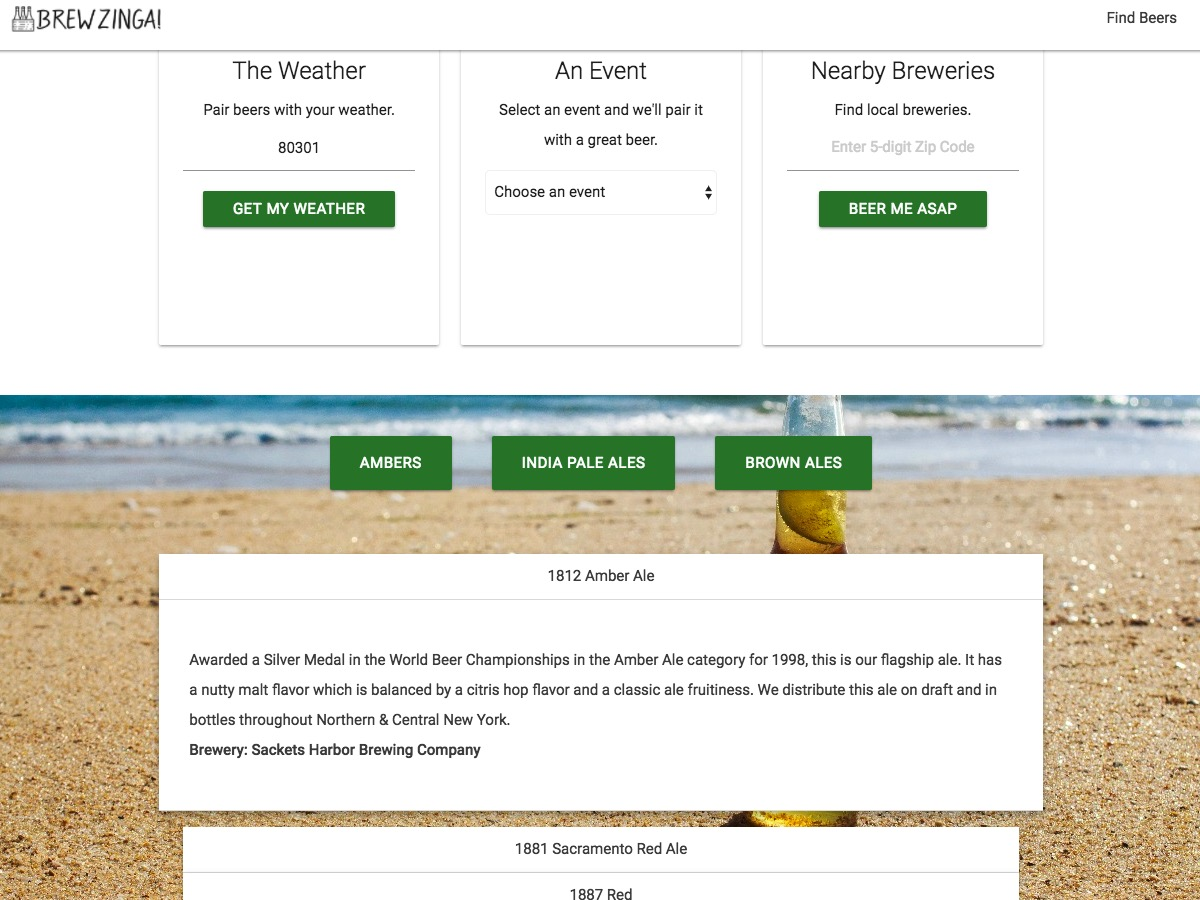
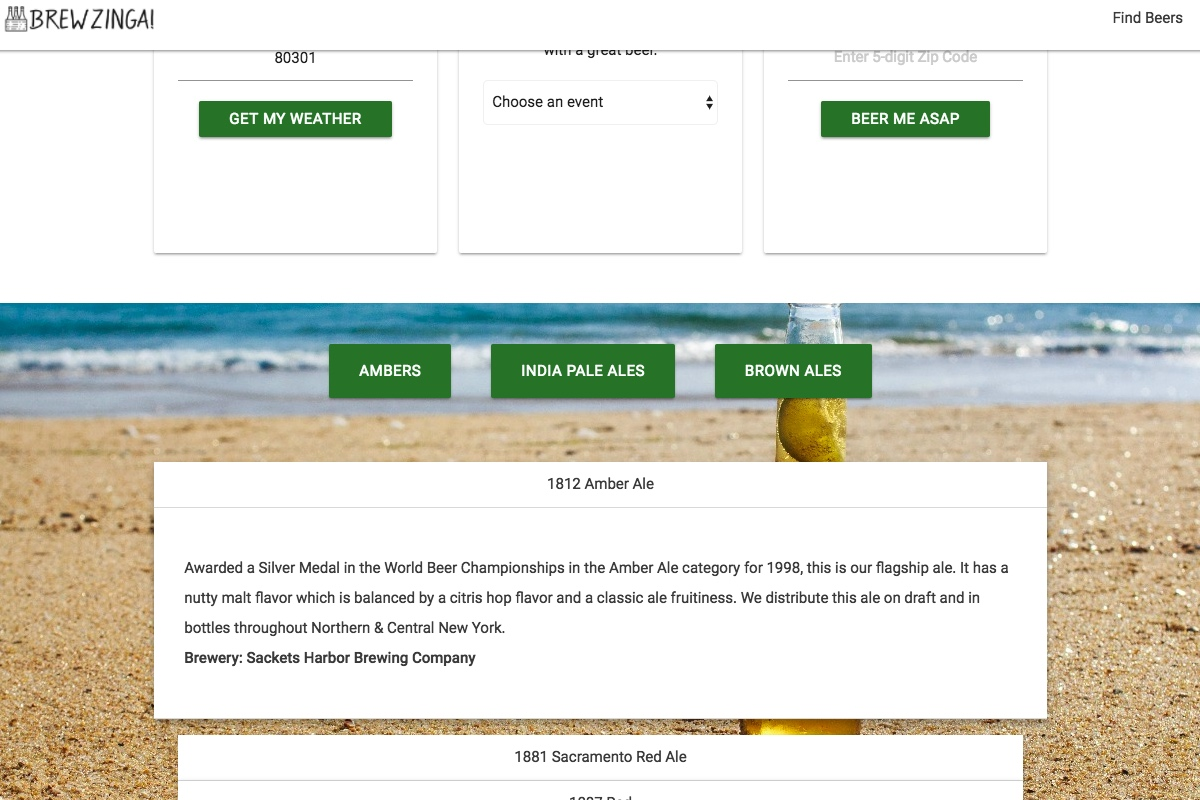
add new images for brewzinga

diff --git a/seeds/1_portfolio_projects.js b/seeds/1_portfolio_projects.js
@@ -13,7 +13,8 @@ exports.seed = function(knex, Promise) {
           full_description: 'Web application that uses a bot to pre-qualify users for a spinal cord injury rehabilitation program. Uses Microsoft Bot Framework to accept and qualify users on website and on Facebook Messenger using same code.',
           technologies: 'Microsoft Bot Framework, Azure App Services, NodeJS, Bootstrap',
           api: 'Facebook Messenger',
-          image: 'https://github.com/bradefting/portfolio-website/blob/master/public/images/screenshots/TheraBot.png?raw=true',
+          main_image: 'https://github.com/bradefting/portfolio-website/blob/master/public/images/therabot/TheraBot.jpg?raw=true',
+          project_images: "",
           deployed_site: 'http://therabot.azurewebsites.net/',
           github_link: 'https://github.com/bradefting',
           video_link: 'https://www.youtube.com/watch?v=vWmQPOAuPQs'
@@ -25,7 +26,8 @@ exports.seed = function(knex, Promise) {
           full_description: "Full-stack web application that matches a user's skills with job descriptions using the Indeed job search API. Users can save job searches using MongoDB.",
           technologies: 'AngularJS, NodeJS, MongoDB, Mongoose, Passport oAuth, Heroku',
           api: 'Indeed Job Search',
-          image: 'https://github.com/bradefting/portfolio-website/blob/master/public/images/screenshots/GooseHire.png?raw=true',
+          main_image: 'https://github.com/bradefting/portfolio-website/blob/master/public/images/goosehire/GooseHire.jpg?raw=true',
+          project_images: "",
           deployed_site: 'https://q3-goosehire.herokuapp.com/',
           github_link: 'https://github.com/bradefting/q3-goosehire',
           video_link: 'https://www.youtube.com/watch?v=vWmQPOAuPQs'
@@ -37,7 +39,8 @@ exports.seed = function(knex, Promise) {
           full_description: "Full-stack web application to search and share the best locations for stargazing. Uses PostgreSQL to store locations and ESRI's light pollution map to display.",
           technologies: 'Materialize, jQuery, AJAX, NodeJS, Express, Knex.js, PostgreSQL, Heroku',
           api: 'Esri ArcGIS Maps',
-          image: 'https://github.com/bradefting/portfolio-website/blob/master/public/images/screenshots/NightLite.png?raw=true',
+          main_image: 'https://github.com/bradefting/portfolio-website/blob/master/public/images/nightlite/NightLite.jpg?raw=true',
+          project_images: "",
           deployed_site: 'https://bradefting-nightlite.herokuapp.com/',
           github_link: 'https://github.com/bradefting/nightlite',
           video_link: 'https://www.youtube.com/watch?v=jhVOPEd9WoQ'
@@ -49,7 +52,8 @@ exports.seed = function(knex, Promise) {
           full_description: "Web application that recommends beers based on an event or the user's local weather using Weather Underground and BreweryDB APIs. Single-page app also displays local breweries using AJAX and jQuery.",
           technologies: 'Materialize, jQuery, AJAX, Surge',
           api: 'Weather Underground, BreweryDB',
-          image: 'https://github.com/bradefting/portfolio-website/blob/master/public/images/screenshots/Brewzinga.png?raw=true',
+          main_image: 'https://github.com/bradefting/portfolio-website/blob/master/public/images/brewzinga/Brewzinga.jpg?raw=true',
+          project_images: "",
           deployed_site: 'http://brewzinga.surge.sh/',
           github_link: 'https://github.com/bradefting/Brewzinga',
           video_link: 'https://www.youtube.com/watch?v=aJO_bQ4lRUc&t=1s'

diff --git a/migrations/20170407155617_portfolio_projects.js b/migrations/20170407155617_portfolio_projects.js
@@ -8,7 +8,8 @@ exports.up = function(knex, Promise) {
     table.string('full_description').notNullable();
     table.string('technologies').notNullable();
     table.string('api').notNullable();
-    table.string('image').notNullable();
+    table.string('main_image').notNullable();
+    table.string('project_images').notNullable();
     table.string('deployed_site').notNullable();
     table.string('github_link').notNullable();
     table.string('video_link').notNullable();
